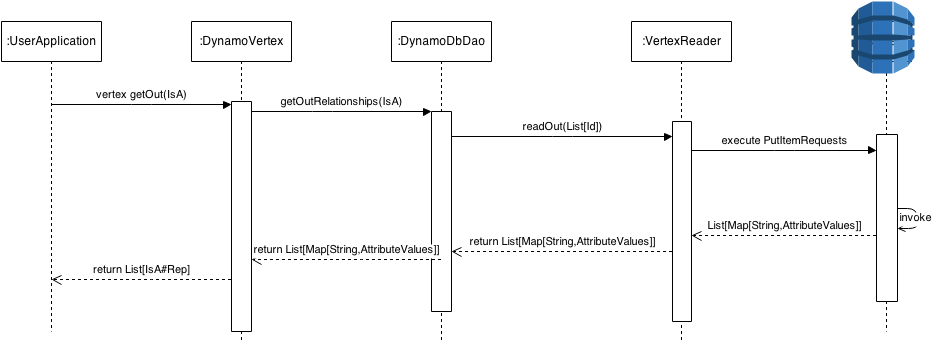
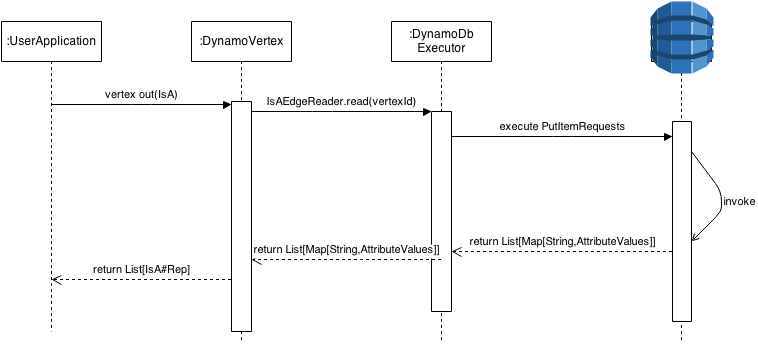
[#43] Correction

diff --git a/docs/Usage.md b/docs/Usage.md
@@ -1,6 +1,6 @@
 ## Project usage
 
-This section explain how you can use Dynamograph with your own data and AWS infrastructure.
+This section explains how you can use Dynamograph with your own data and AWS infrastructure.
 
 ### Prerequisites
 
@@ -33,9 +33,19 @@ object Dynamograph {
 
 On the other hand method: `TableModelInitializer.clear()` will remove tables fron DynamoDB.
 
-<!-- I'd add another section about parsing here -->
+##### Parsing
 
-##### data uploading
+Before you will able to save data to DynamoDb you should prepare data - parse to the representation acceptable by service responsible for writing. 
+What is extremely important that parsing large files should read chunks and pass them further to the processing. 
+Currently you can parse file by next commands:
+```scala
+val elements = new PullGoParser(Source.fromFile("test_file.owl))
+```
+As a result you will receive `Iterables` on which you can apply function `(SingleElement) => U // U is type parameter`
+
+
+
+##### Data uploading
 
 Firstly you should identify the dataset on which you want to work and find proper parser for it (parser is part of the project). For each of the parser there also should be mapper which translates parser output to the intermediate form.
 Received intermediate form you could pass to the service which you can get from Service Provider.
@@ -73,13 +83,11 @@ val vertex: GoTerm // vertex that you have
 val attributeValue = vertex get identify // there you will get value of the id attribute 
 ```
 
-As you can see usage of Dynamograh when you have vertices or edges are extremely easy, but what in case that you want to get some vertex but everything you know about vertex is just `id`.
-In such case Dynamograph offer special service that you can use for it. Code below presents how to use it:
-
-<!-- Is this like explained here right now? -->
+As you can see usage of Dynamograph when you have vertices or edges is extremely easy, but what in case that you want to get some vertex but everything you know about vertex is just `id`.
+In such case Dynamograph offer reader for each of the vertex type. All you need to do is just to invoke read method for appropriate reader. Code below illustrates reading GOTerm by id:
 
 ``` scala
-val result = ServiceProvider.dao.get(id_of_the_vertex,vertex_type) 
+val result =  GoTerm ->> goTermVertexReader.read(id_of_the_vertex) 
 // result of this invocation returns vertex with given id and type - in case of success otherwise exception
 ```
 

diff --git a/docs/Functionalities.md b/docs/Functionalities.md
@@ -8,13 +8,13 @@ Functionalities offered by Dynamograph could be divided into two orthogonal grou
 - saving data to DynamoDB
 - reading data from DynamoDB
 
-Each of the groups covers the most important functionalities from Bio4j perspective, as a result user can imagine a lot of dfferent application that will require extending offered functionality.
+Each of the groups covers the most important functionalities from Bio4j perspective, as a result user can imagine a lot of different application that will require extending offered functionality.
 This topic is described in more details in the [Extensibility](Extensibility.md) section.
 
 ## Writing group
 
 This group of functionalities concentrate on uploading data to DynamoDB. Between others methods user can find:
-- parsing raw data and transalting it into intermediate form
+- parsing raw data and translating it into intermediate form
 - mapping intermediate form into upload instructions — DynamoDB instructions
 - execute upload instructions
 
@@ -22,11 +22,15 @@ Description of typical workflow for uploading data could be found in the [Archit
 What is extremely important is that writing data to db is organized in streams — part of data is red from file, parsed, translated into intermediate form and saved to db.
 Such organization protect programs from gigantic memory usage and enables processing extremely big volumes of data.
 
-Based on Dynamoraph functionalities concentrated around writing another project/task was build: [dynamograph-ddwriter](https://github.com/bio4j/dynamograph-ddwriter)
+One of the project thaw was build over Dynamograph functionalities concentrated around writing: [dynamograph-ddwriter](https://github.com/bio4j/dynamograph-ddwriter)
 
 ## Reading group
 
 There user finds methods for retrieving data from DynamoDB and map them to scala model.
 This group is more important as it will be more often used (writing will be used just for filling db with data).
 
-<!-- Any other info about reading stuff? -->
+Reading is lazy - when you are reading vertex you will get only its attributes - if you want to read edges another call to database must be executed.
+Thanks to such organization we reasonable utilize memory and throughput offered by dynamodb. 
+
+
+Examplary process of reading data is visualized in the [Architecture](Architecture.md) section.

diff --git a/docs/Architecture.md b/docs/Architecture.md
@@ -7,7 +7,7 @@ General plan of system could be described with next layers:
 - user interface layer — functions offered for the user of the system
 - Scala model layer — definition of the data model
 - database layer — functions responsible for data manipulation, communication with database
-- DynamoDB <!-- TODO DynamoDB? -->
+- DynamoDB — storage layer, persist data 
 
 The diagram below presents the layered architecture of the system:
 
@@ -20,7 +20,11 @@ Writing data to DynamoDB could be divided in 2 phases:
 - parsing / gathering data
 - uploading the data to db
 
-What is more writing data is organized into stream. <!-- TODO what do you mean here? -->
+What is more writing data is organized into stream of next phases:
+ - parsing chunk of the file
+ - mapping it to the intermediate form
+ - translating form to the put request
+ - executing request
 
 The diagram below represents the standard workflow of saving data to DynamoDB.
 

diff --git a/docs/Datasets.md b/docs/Datasets.md
@@ -32,40 +32,11 @@ Description of the model presents types of the nodes as well as types of edges
 - positively regulates
 - namespace
 
-### Ncbi Taxonomy
-
-The Taxonomy Database is a curated classification and nomenclature for all of the organisms in the public sequence databases.
-This currently represents about 10% of the described species of life on the planet.[\[2\]][3]
-
-#### Model
-
-Description of the model presents types of the nodes as well as types of edges
-
-##### Nodes
-
-- Taxon
-  * id
-  * name
-  * comment
-  * scientific name
-
-- Rank
-  * number
-  * name
-
-##### Edges
-
-- assigned rank
-- subrank
-- parent
-
 
 ### Sources
 
 - \[1\]: [Gene ontology documentation][1]
 - \[2\]: [Gene ontology relationship description][2]
-- \[3\]: [NCBI Taxonomy home page][3]
 
 [1]: http://www.geneontology.org/page/documentation
 [2]: http://www.geneontology.org/page/ontology-relations
-[3]: http://www.ncbi.nlm.nih.gov/taxonomy

diff --git a/docs/readme.md b/docs/readme.md
@@ -60,8 +60,9 @@ This has a profound impact on the design of tables, that reflects this kind of r
 
 ## Why DynamoDB?
 
-<!-- TODO Something's missing here -->
-Lorem ipsum dolor sit amet, consectetur adipisicing elit.
+> DynamoDB is a fast, fully managed NoSQL database as a service that makes it simple and cost-effective to store and retrieve any amount of data, and serve any level of request traffic
+
+The main reason for choosing DynamoDb as database is scalability and performance. Database characteristics enables building powerful solutions.
 
 
 ## Interactions with other tools

diff --git a/docs/Extensibility.md b/docs/Extensibility.md
@@ -16,7 +16,7 @@ Code is organized in packages that divide code into different responsibilities:
 - `parser` — classes and functions for turning raw data into intermediate form
 - `model` — definition of scala model for supported datasets
 - `mapper` — sources for mapping intermediate parser output to the abstract intermediate format
-- `dao` — there is code that orchestrate database requests
+- `dynamodb` — there is code that invoke database requests
 
 Diagram below presents package organization of the project
 
